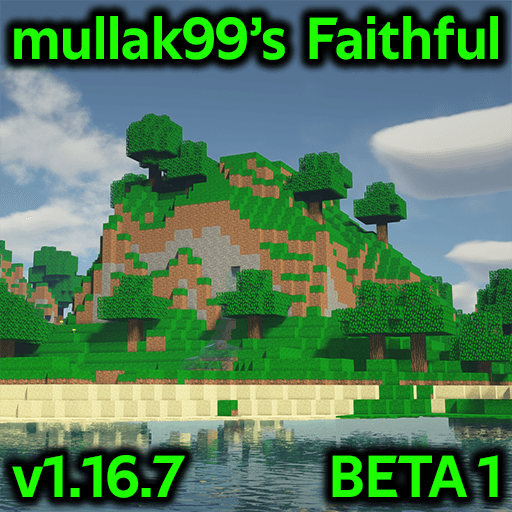
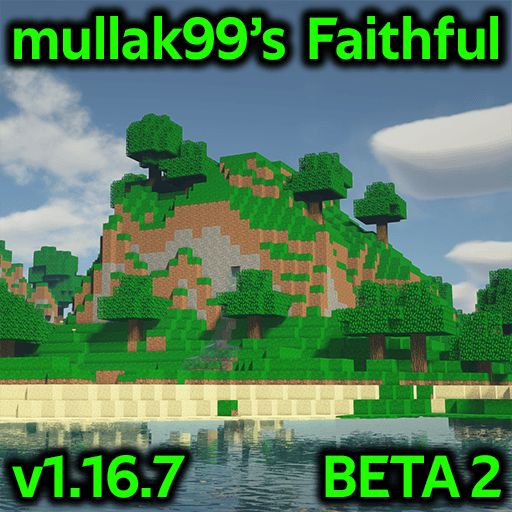
v1.16.7-BETA2
Minor changes to social interactions and toasts UI

Changed region(s): [[0.5938, 0.8438, 1.0, 1.0]]

diff --git a/README.md b/README.md
@@ -1,6 +1,6 @@
 # mullak99's Faithful 32x
 
-**Current Branch Version:** _v1.16.7-BETA1_  
+**Current Branch Version:** _v1.16.7-BETA2_  
 
 ## Branch Breakdown
 
